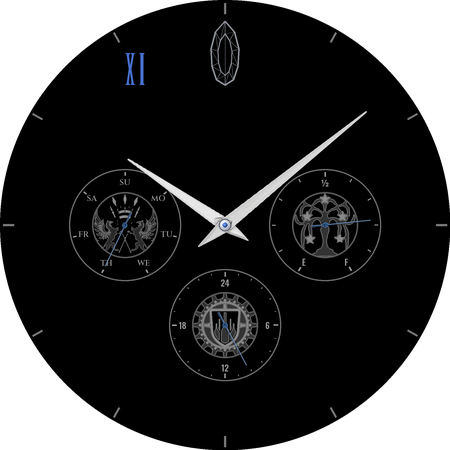
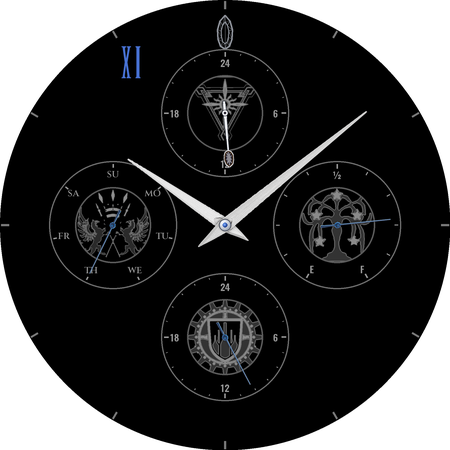
Watch face: Jeuno Vana'diel-time dial; bigger sub-dials
- Fourth sub-dial at 12 in Classic, Dark and Light, under the Jeuno
  crest: Vana'diel time on a 24-hour scale (one turn per Vana'diel day).
  Its hand is tipped with today's elemental crystal, so the hand's colour
  shows the Vana'diel weekday: eight hand images share the angle and only
  today's is visible. Same verified UTC-based maths as Vana'diel Time.
- All sub-dials are larger (radius 56 -> 64, set further out) with larger
  crests, labels and hands; the outer ring is pushed out and slimmer in
  every style to make room. The 12 o'clock crystal is smaller and the
  wordmarks are gone.
- Jeuno crest cropped from the supplied banner (ribbon text left out);
  outline styles draw its sunburst bright and its bands as linework.

Claude-Session: https://claude.ai/code/session_01DhcV9kAg7FMXufVfZQP7Ta

diff --git a/ffxi-watchface/tools/generate_assets.py b/ffxi-watchface/tools/generate_assets.py
@@ -26,15 +26,17 @@ EMBLEMS = os.path.join(os.path.dirname(__file__), 'emblems')  # square crops of 
 WORLD_LAND = os.path.join(EMBLEMS, 'worldmap_land.png')      # Vana'diel land mask
 
 # Layout (in 450px units) -- keep in sync with watchface.xml
-SUB_OFFSET = 100   # sub-dial centre distance from main centre
-SUB_R = 56         # sub-dial radius
-EMBLEM_R = 33      # crest medallion radius inside each sub-dial
+SUB_OFFSET = 112   # sub-dial centre distance from main centre
+SUB_R = 64         # sub-dial radius
+EMBLEM_R = 38      # crest medallion radius inside each sub-dial
 DATE_POS = (225 + 103, 225 + 103)  # date window centre (4:30)
 DATE_SIZE = (34, 24)
 # Sub-dials, as on the real watch: San d'Oria at 9, Bastok at 6, Windurst at 3.
 POSITIONS = {'left': (225 - SUB_OFFSET, 225), 'right': (225 + SUB_OFFSET, 225), 'bottom': (225, 225 + SUB_OFFSET)}
-POSITION_SCALE = {'left': 'days', 'right': 'battery', 'bottom': '24h'}
+POSITION_SCALE = {'left': 'days', 'right': 'battery', 'bottom': '24h', 'top': '24h'}
 LAYOUT = {'left': 'sandoria', 'bottom': 'bastok', 'right': 'windurst'}
+# Fourth dial at 12: Vana'diel time on a 24-hour scale under the Jeuno crest.
+VANA_POS = (225, 225 - SUB_OFFSET)
 
 NAVY_IN, NAVY_OUT = (30, 48, 84), (6, 11, 24)
 # Nation colours: San d'Oria red, Bastok blue, Windurst green
@@ -42,6 +44,7 @@ NATIONS = {
     'sandoria': ((150, 28, 38), (70, 10, 16)),
     'bastok': ((36, 84, 168), (12, 32, 78)),
     'windurst': ((34, 120, 66), (10, 50, 26)),
+    'jeuno': ((150, 112, 44), (70, 48, 14)),
 }
 
 
@@ -230,7 +233,7 @@ def applied_text(img, draw_fn, stops=GOLD_STOPS, shadow=True):
 
 
 # --------------------------------------------------------------------- crystals
-CRYSTAL_R = (140, 204)   # 12 o'clock crystal spans these radii
+CRYSTAL_R = (176, 210)   # 12 o'clock crystal spans these radii
 
 
 def load_crystal(height):
@@ -284,11 +287,13 @@ def place_crystal(img, ambient, bright=1.0):
 # --------------------------------------------------------------------- dial
 def sub_centers():
     """Sub-dial centre per nation, from LAYOUT (same in every style, as on the real watch)."""
-    return {key: POSITIONS[pos] for pos, key in LAYOUT.items()}
+    centres = {key: POSITIONS[pos] for pos, key in LAYOUT.items()}
+    centres['jeuno'] = VANA_POS
+    return centres
 
 
 def position_of(key):
-    return next(pos for pos, k in LAYOUT.items() if k == key)
+    return 'top' if key == 'jeuno' else next(pos for pos, k in LAYOUT.items() if k == key)
 
 
 def crest_masks(key, a):
@@ -317,10 +322,17 @@ def crest_masks(key, a):
         rr = np.hypot(xx - a.shape[1] / 2, yy - a.shape[0] / 2)
         dots = ndimage.binary_dilation(ndimage.binary_opening(white & (rr > a.shape[0] * 0.32), iterations=2), iterations=3)
         acc = (keep(light | greyblue, 20) | dots) & (rr < a.shape[0] * 0.47)
-    else:                   # windurst: green star tree; yellow stars
+    elif key == 'windurst':  # green star tree; yellow stars
         star = (r > 170) & (g > 170) & (b < 110)
         fig = keep((g > r + 25) & ~star, 300)
         acc = keep(star, 30)
+    else:                   # jeuno: the sunburst bright, the triangle's coloured bands as linework
+        yy = np.mgrid[0:a.shape[0], 0:a.shape[1]][0]
+        sun = (r > 190) & (g < 215) & (b < 120) & (r > b + 80)
+        bands = (((a.max(2) - a.min(2)) > 50) | (a.max(2) < 120)) & ~sun & (yy < a.shape[0] * 0.86)
+        fig = np.zeros(a.shape[:2], bool)
+        acc = keep(sun, 40)
+        detail = keep(bands, 60)
     return fig, acc, detail
 
 
@@ -389,8 +401,8 @@ def draw_subdial(img, key, ambient=False, bright=1.0):
 
 def draw_scale(d, kind, cx, cy, R, fg):
     """Ticks and labels of a sub-dial: 'days' (9 o'clock), 'battery' (3), '24h' (6)."""
-    small = font(FONT_LABEL, 8)
-    num = font(FONT_NUM, 8.5)
+    small = font(FONT_LABEL, 9)
+    num = font(FONT_NUM, 9.5)
     tick_r0, tick_r1, lab_r = R - s(3), R - s(6.5), R - s(13.5)
     if kind == 'days':
         days = ['SU', 'MO', 'TU', 'WE', 'TH', 'FR', 'SA']
@@ -442,9 +454,9 @@ def make_dial(ambient=False, bright=0.6):
         img = sunburst(size)
         draw_world(img, (200, 215, 255, 14), (200, 215, 255, 46))
         # chapter ring: dark gunmetal, stepped down from the dial with a bright chamfer
-        metal_ring(img, C, C, s(226), s(206), (10, 13, 19), (58, 64, 78))
-        inner_shadow(img, ring_mask(size, C, C, s(226), s(206)), depth=1.2, blur=1.0, alpha=0.5)
-        metal_ring(img, C, C, s(206.5), s(204.5), (60, 66, 80), (210, 216, 228), recessed=True)
+        metal_ring(img, C, C, s(226), s(213), (10, 13, 19), (58, 64, 78))
+        inner_shadow(img, ring_mask(size, C, C, s(226), s(213)), depth=1.2, blur=1.0, alpha=0.5)
+        metal_ring(img, C, C, s(213.5), s(211.5), (60, 66, 80), (210, 216, 228), recessed=True)
     d = ImageDraw.Draw(img)
 
     for i in range(60):
@@ -453,17 +465,17 @@ def make_dial(ambient=False, bright=0.6):
         if ambient and not five:
             continue
         col = (120, 120, 120) if ambient else ((240, 240, 240) if five else (170, 176, 186))
-        d.line([polar(s(222), a), polar(s(211 if five else 216), a)], fill=col, width=round(s(2.2 if five else 1)))
+        d.line([polar(s(224), a), polar(s(216 if five else 220), a)], fill=col, width=round(s(2.2 if five else 1)))
 
     # 12 = crystal, 11 = "XI"
     if not ambient:
         glow = Image.new('RGBA', size, (0, 0, 0, 0))
-        ImageDraw.Draw(glow).ellipse([C - s(24), C - s(208), C + s(24), C - s(136)], fill=(60, 110, 255, 150))
+        ImageDraw.Draw(glow).ellipse([C - s(16), C - s(213), C + s(16), C - s(173)], fill=(60, 110, 255, 150))
         img.alpha_composite(glow.filter(ImageFilter.GaussianBlur(s(9))))
     place_crystal(img, ambient, bright)
     d = ImageDraw.Draw(img)
 
-    pos = polar(s(180), 330)
+    pos = polar(s(188), 330)
     xi = xi_mask(size, pos)
     if ambient:   # solid crystal-blue numeral
         k = 0.6 + 0.4 * bright
@@ -472,9 +484,7 @@ def make_dial(ambient=False, bright=0.6):
     else:
         # applied (raised) gold numeral and wordmark; small print stays flat like pad printing
         applied_text(img, xi)
-        applied_text(img, lambda dd, f: text_ff(dd, (C, C - s(99)), "VANA'DIEL", 23, f))
         d = ImageDraw.Draw(img)
-        text_c(d, (C, C - s(118)), 'WE ARE', font(FONT_LABEL, 8), (200, 206, 218))
 
     for key in NATIONS:
         draw_subdial(img, key, ambient, bright)
@@ -507,7 +517,7 @@ def make_dial(ambient=False, bright=0.6):
 # After the real Seiko piece: silver-white dial with a faint Vana'diel world map,
 # blue inner ring, applied lume batons, white sub-dials with printed crests and
 # nation-coloured rings and hands.
-NATION_INK = {'sandoria': (196, 32, 44), 'windurst': (40, 150, 70), 'bastok': (40, 70, 190)}
+NATION_INK = {'sandoria': (196, 32, 44), 'windurst': (40, 150, 70), 'bastok': (40, 70, 190), 'jeuno': (150, 110, 40)}
 LIGHT_BLUE_RING = ((24, 40, 104), (66, 96, 178))
 
 
@@ -535,7 +545,7 @@ def draw_world(img, fill, line, width=1.0, diameter=330):
     fill_mask(img, Image.fromarray((edge * line[3]).astype(np.uint8)).filter(ImageFilter.GaussianBlur(SS / 3)), line[:3] + (255,))
 
 
-def lume_baton(img, deg, r0=168, r1=196, w=7.5):
+def lume_baton(img, deg, r0=182, r1=207, w=7.5):
     """Applied silver baton with a lume insert, long axis radial."""
     L = s(r1 - r0)
     pad = s(4)
@@ -563,9 +573,8 @@ def light_crest(key, size):
     return img
 
 
-def light_subdial(img, pos):
-    key = LAYOUT[pos]
-    cx, cy = (s(v) for v in POSITIONS[pos])
+def light_subdial(img, key, centre, scale):
+    cx, cy = (s(v) for v in centre)
     R = s(SUB_R)
     g = radial_gradient((2 * R, 2 * R), (252, 252, 253), (232, 234, 238))
     rings = Image.new('RGBA', g.size, (0, 0, 0, 0))
@@ -583,7 +592,7 @@ def light_subdial(img, pos):
     for i in range(60):   # fine outer track
         a = i * 6
         d.line([polar(R - s(1.5), a, cx, cy), polar(R - s(3.2), a, cx, cy)], fill=(120, 124, 132), width=round(s(0.5)))
-    draw_scale(d, POSITION_SCALE[pos], cx, cy, R, (54, 58, 66))
+    draw_scale(d, scale, cx, cy, R, (54, 58, 66))
     # thin printed ring in the nation's colour
     d.ellipse([cx - R, cy - R, cx + R, cy + R], outline=NATION_INK[key], width=round(s(1.8)))
 
@@ -593,28 +602,27 @@ def make_light_dial():
     img = light_sunburst(size)
     draw_world(img, (120, 128, 142, 26), (110, 118, 132, 90))
     # blue inner ring (rehaut) with fine white ticks
-    metal_ring(img, C, C, s(226), s(205), *LIGHT_BLUE_RING)
+    metal_ring(img, C, C, s(226), s(212), *LIGHT_BLUE_RING)
     d = ImageDraw.Draw(img)
     for i in range(240):
         a = i * 1.5
         major, five = i % 4 == 0, i % 20 == 0
-        r1 = 213 if five else (217 if major else 220)
+        r1 = 216 if five else (219 if major else 221.5)
         d.line([polar(s(224), a), polar(s(r1), a)], fill=(236, 240, 250), width=round(s(1.4 if five else (0.8 if major else 0.5))))
-    d.ellipse([C - s(205), C - s(205), C + s(205), C + s(205)], outline=(20, 24, 34), width=round(s(1)))
-    inner_shadow(img, circle_mask(size, C, C, s(205)), depth=1.6, blur=1.6, alpha=0.35)
+    d.ellipse([C - s(212), C - s(212), C + s(212), C + s(212)], outline=(20, 24, 34), width=round(s(1)))
+    inner_shadow(img, circle_mask(size, C, C, s(212)), depth=1.6, blur=1.6, alpha=0.35)
     # applied lume batons, small blue crystal at 12, gold XI at 11
     for h in (1, 2, 3, 4, 5, 6, 7, 8, 9, 10):
         lume_baton(img, h * 30)
-    cr = load_crystal(s(30))
+    cr = load_crystal(s(26))
     layer = Image.new('RGBA', size, (0, 0, 0, 0))
-    layer.paste(cr, (round(C - cr.width / 2), round(C - s(202))))
+    layer.paste(cr, (round(C - cr.width / 2), round(C - s(208))))
     drop_shadow(img, layer.getchannel('A'), blur=1.2, alpha=0.5)
     img.alpha_composite(layer)
-    applied_text(img, xi_mask(size, polar(s(180), 330)))
-    applied_text(img, lambda dd, f: text_ff(dd, (C, C - s(112)), "VANA'DIEL", 21, f),
-                 stops=[(0, (190, 196, 206)), (0.5, (90, 96, 108)), (1, (150, 156, 168))])
+    applied_text(img, xi_mask(size, polar(s(188), 330)))
     for pos in POSITIONS:
-        light_subdial(img, pos)
+        light_subdial(img, LAYOUT[pos], POSITIONS[pos], POSITION_SCALE[pos])
+    light_subdial(img, 'jeuno', VANA_POS, '24h')
     # date window (number drawn live by the watch face)
     x, y = s(DATE_POS[0]), s(DATE_POS[1])
     w, h = s(DATE_SIZE[0]), s(DATE_SIZE[1])
@@ -943,24 +951,48 @@ HANDS = {
     # name: (builder, visual width, tip length, tail length, shadow padding)
     'hand_hour': _photo('hour', 118, thin=0.48),
     'hand_minute': _photo('minute', 182, thin=0.5),
-    'hand_sub': _photo('sub', 46, pad=3, blur=1.0, alpha=0.6),
+    'hand_sub': _photo('sub', 54, pad=3, blur=1.0, alpha=0.6),
     # Dark style: thin outline hands
     'hand_hour_dark': (lambda: outline_hand(112, 16, 10), 10, 112, 16, 2),
     'hand_minute_dark': (lambda: outline_hand(180, 20, 8), 8, 180, 20, 2),
-    'hand_sub_dark': (lambda: needle_hand(44, 10, color=XI_BLUE), 8, 44, 10, 2),
+    'hand_sub_dark': (lambda: needle_hand(52, 12, color=XI_BLUE), 8, 52, 12, 2),
     # Light style: steel hands with a firmer shadow on the white dial; nation-coloured needles
     'hand_hour_light': _photo('hour', 118, thin=0.48, alpha=0.6, outline=True),
     'hand_minute_light': _photo('minute', 182, thin=0.5, alpha=0.6, outline=True),
-    'hand_sub_red': (lambda: with_shadow(needle_hand(44, 10, 1.5, 2.6, color=NATION_INK['sandoria'] + (255,),
-                                                     ring_fill=NATION_INK['sandoria'] + (255,)), 0.8, 0.4), 8, 44, 10, 2),
-    'hand_sub_green': (lambda: with_shadow(needle_hand(44, 10, 1.5, 2.6, color=NATION_INK['windurst'] + (255,),
-                                                       ring_fill=NATION_INK['windurst'] + (255,)), 0.8, 0.4), 8, 44, 10, 2),
-    'hand_sub_blue': (lambda: with_shadow(needle_hand(44, 10, 1.5, 2.6, color=NATION_INK['bastok'] + (255,),
-                                                      ring_fill=NATION_INK['bastok'] + (255,)), 0.8, 0.4), 8, 44, 10, 2),
+    'hand_sub_red': (lambda: with_shadow(needle_hand(52, 12, 1.5, 2.6, color=NATION_INK['sandoria'] + (255,),
+                                                     ring_fill=NATION_INK['sandoria'] + (255,)), 0.8, 0.4), 8, 52, 12, 2),
+    'hand_sub_green': (lambda: with_shadow(needle_hand(52, 12, 1.5, 2.6, color=NATION_INK['windurst'] + (255,),
+                                                       ring_fill=NATION_INK['windurst'] + (255,)), 0.8, 0.4), 8, 52, 12, 2),
+    'hand_sub_blue': (lambda: with_shadow(needle_hand(52, 12, 1.5, 2.6, color=NATION_INK['bastok'] + (255,),
+                                                      ring_fill=NATION_INK['bastok'] + (255,)), 0.8, 0.4), 8, 52, 12, 2),
     # Vana'diel Time style: ink hands
     'hand_hour_vana': (lambda: ink_hand(110, 18, 10), 10, 110, 18, 3),
     'hand_minute_vana': (lambda: ink_hand(176, 22, 8), 8, 176, 22, 3),
 }
+VANA_HAND = (12, 54, 12, 2)   # visual width, tip, tail, pad
+
+
+def vana_hand(color):
+    """Vana'diel 24h hand: a steel needle whose tip is today's elemental crystal."""
+    w, tip, tail, pad = VANA_HAND
+    img, px, py = hand_canvas(w, tip, tail, pad)
+    d = ImageDraw.Draw(img)
+    shaft = [(px - s(0.9), py - s(tip - 12)), (px - s(1.8), py), (px - s(1.3), py + s(tail)),
+             (px + s(1.3), py + s(tail)), (px + s(1.8), py), (px + s(0.9), py - s(tip - 12))]
+    d.polygon(shaft, fill=(236, 238, 242, 255), outline=(40, 44, 54, 255), width=round(s(0.6)))
+    d.ellipse([px - s(3.2), py - s(3.2), px + s(3.2), py + s(3.2)], fill=(236, 238, 242, 255), outline=(40, 44, 54, 255), width=round(s(0.6)))
+    d.ellipse([px - s(1.2), py - s(1.2), px + s(1.2), py + s(1.2)], fill=color + (255,))
+    cr = element_crystal(color, h=15)
+    at = (round(px - cr.width / 2), round(py - s(tip) - s(1.5)))
+    halo = Image.new('L', img.size, 0)   # light rim so dark elements (Darksday) read on dark dials
+    halo.paste(cr.getchannel('A').filter(ImageFilter.MaxFilter(round(s(0.7)) * 2 + 1)), at)
+    fill_mask(img, halo.point(lambda v: v * 0.85), (240, 240, 244, 255))
+    img.alpha_composite(cr, at)
+    return with_shadow(img, blur=0.9, alpha=0.5)
+
+
+for _k, (_name, _color) in enumerate(ELEMENTS):
+    HANDS[f'hand_vana_{_k}'] = ((lambda c=_color: vana_hand(c)),) + VANA_HAND
 LIGHT_NEEDLE = {'sandoria': 'hand_sub_red', 'windurst': 'hand_sub_green', 'bastok': 'hand_sub_blue'}
 
 
@@ -999,6 +1031,7 @@ def patch_xml():
     setattrs(r'<MinuteHand resource="hand_minute_light" [^>]*>', 225, 225, 'hand_minute_light')
     for pos, (cx, cy) in POSITIONS.items():
         setattrs(rf'<PartImage name="sub_{pos}_light" [^>]*>', cx, cy, LIGHT_NEEDLE[LAYOUT[pos]])
+    setattrs(r'<PartImage name="vana_hand_\d_\w+" [^>]*>', *VANA_POS, 'hand_vana_0')
     setattrs(r'<HourHand resource="hand_hour_vana" [^>]*>', 225, 225, 'hand_hour_vana')
     setattrs(r'<MinuteHand resource="hand_minute_vana" [^>]*>', 225, 225, 'hand_minute_vana')
     for name, (_, half) in CAPS.items():
@@ -1031,6 +1064,14 @@ def place(canvas, hand, name, cx, cy, deg):
     canvas.alpha_composite(layer.rotate(-deg, center=(s(cx), s(cy)), resample=Image.BICUBIC))
 
 
+PREVIEW_UTC = 1793270400   # sample moment for the previews
+
+
+def place_vana_hand(img, hands_hi, utc=PREVIEW_UTC):
+    vh, vm, wd = vana_now(utc)
+    place(img, hands_hi[f'hand_vana_{wd}'], f'hand_vana_{wd}', *VANA_POS, (vh + vm / 60) * 15)
+
+
 def preview(dial_hi, hands_hi, caps_hi, glass_hi, hh=10, mm=8, ss=32, dow=5, day=29, batt=78, ambient=False, dark=False):
     img = dial_hi.copy()
     sfx = '_dark' if dark else ''
@@ -1039,6 +1080,7 @@ def preview(dial_hi, hands_hi, caps_hi, glass_hi, hh=10, mm=8, ss=32, dow=5, day
     angle = {'left': (dow - 1) * 360 / 7, 'right': -150 + batt * 3, 'bottom': (hh + mm / 60) * 15}
     for pos, (cx, cy) in POSITIONS.items():
         place(img, sub, 'hand_sub' + sfx, cx, cy, angle[pos])
+    place_vana_hand(img, hands_hi)
     if not ambient or dark:
         d = ImageDraw.Draw(img)
         text_c(d, (s(DATE_POS[0]), s(DATE_POS[1])), str(day), font(FONT_SERIF, 15),
@@ -1057,6 +1099,7 @@ def preview_light(dial_hi, hands_hi, caps_hi, glass_hi, hh=10, mm=8, dow=5, day=
     for pos, (cx, cy) in POSITIONS.items():
         name = LIGHT_NEEDLE[LAYOUT[pos]]
         place(img, hands_hi[name], name, cx, cy, angle[pos])
+    place_vana_hand(img, hands_hi)
     text_c(ImageDraw.Draw(img), (s(DATE_POS[0]), s(DATE_POS[1])), str(day), font(FONT_SERIF, 15), (20, 20, 20))
     place(img, hands_hi['hand_hour_light'], 'hand_hour_light', 225, 225, (hh % 12 + mm / 60) * 30)
     place(img, hands_hi['hand_minute_light'], 'hand_minute_light', 225, 225, mm * 6)

diff --git a/ffxi-watchface/README.md b/ffxi-watchface/README.md
@@ -11,6 +11,13 @@ Light follows the real Seiko piece: silver-white dial, blue inner ring, lume bat
 nation-coloured rings and hands. Every style uses the real watch's sub-dial order: San d'Oria at 9
 (day of week), Bastok at 6 (24-hour), Windurst at 3 (battery).
 
+Classic, Dark and Light also have a fourth dial at 12 under the Jeuno crest: **Vana'diel time** on a
+24-hour scale (one turn per Vana'diel day, 57.6 Earth minutes). Its hand is tipped with today's
+elemental crystal, so its colour tells you the Vana'diel weekday (Firesday red, Earthsday ochre,
+Watersday blue, Windsday green, Iceday pale blue, Lightningday violet, Lightsday white, Darksday black):
+
+![weekday hands](docs/vanadiel_weekday_hands.png)
+
 **Vana'diel Time** is a parchment map of Vana'diel with Earth time on ink hands, plus a live readout of
 Vana'diel time (25x Earth time) and today's elemental weekday with its crystal. Both are computed on the
 watch from the UTC time: one Earth day is exactly 25 Vana'diel days, so the time of day depends only on
